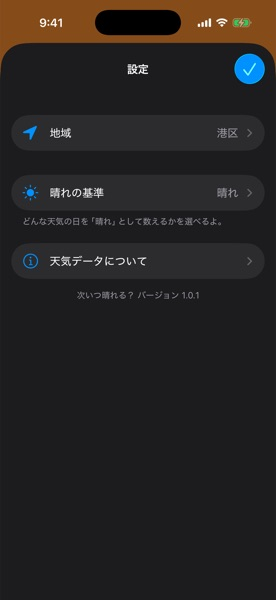
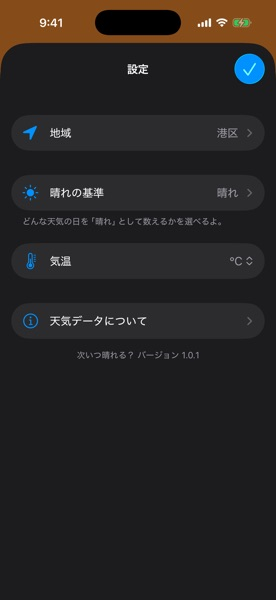
Show English screenshots in the English README
README.md showed the Japanese screens. The screenshots are now in
docs/images/en/ and docs/images/ja/, one set per README, and the
Japanese Settings screens show the new Temperature row.

diff --git a/README.ja.md b/README.ja.md
@@ -4,7 +4,7 @@
 
 <img src="https://user-images.githubusercontent.com/45661924/97105071-d28d2580-16fb-11eb-8f8d-7ec79940db41.png" width="300">
 
-<img src="docs/images/widget.jpg" width="600">
+<img src="docs/images/ja/widget.jpg" width="600">
 
 次に晴れる日を、ホーム画面のウィジェットで確かめられる iOS アプリです。
 天気アプリのウィジェットには今日と明日の天気しか出ず、洗濯物をいつ外に干せるかがわかりにくかったため作りました。
@@ -102,8 +102,8 @@ $ for p in Packages/Core/* Packages/Features/* Tools/ImportCheck; do (cd "$p" &&
 
 | 画面 | Light | Dark |
 | --- | --- | --- |
-| ホーム | <img src="docs/images/home-light.jpg" width="300"> | <img src="docs/images/home-dark.jpg" width="300"> |
-| 日別詳細 | <img src="docs/images/day-light.jpg" width="300"> | <img src="docs/images/day-dark.jpg" width="300"> |
-| 設定 | <img src="docs/images/settings-light.jpg" width="300"> | <img src="docs/images/settings-dark.jpg" width="300"> |
-| 地域検索 | <img src="docs/images/region-light.jpg" width="300"> | <img src="docs/images/region-dark.jpg" width="300"> |
-| 天気データについて | <img src="docs/images/about-light.jpg" width="300"> | <img src="docs/images/about-dark.jpg" width="300"> |
+| ホーム | <img src="docs/images/ja/home-light.jpg" width="300"> | <img src="docs/images/ja/home-dark.jpg" width="300"> |
+| 日別詳細 | <img src="docs/images/ja/day-light.jpg" width="300"> | <img src="docs/images/ja/day-dark.jpg" width="300"> |
+| 設定 | <img src="docs/images/ja/settings-light.jpg" width="300"> | <img src="docs/images/ja/settings-dark.jpg" width="300"> |
+| 地域検索 | <img src="docs/images/ja/region-light.jpg" width="300"> | <img src="docs/images/ja/region-dark.jpg" width="300"> |
+| 天気データについて | <img src="docs/images/ja/about-light.jpg" width="300"> | <img src="docs/images/ja/about-dark.jpg" width="300"> |

diff --git a/README.md b/README.md
@@ -4,7 +4,7 @@
 
 <img src="https://user-images.githubusercontent.com/45661924/97105071-d28d2580-16fb-11eb-8f8d-7ec79940db41.png" width="300">
 
-<img src="docs/images/widget.jpg" width="600">
+<img src="docs/images/en/widget.jpg" width="600">
 
 An iOS widget that shows the next sunny day on your home screen.
 Weather widgets usually show only today and tomorrow, so it was hard to tell when you could hang your laundry outside.
@@ -102,8 +102,8 @@ $ for p in Packages/Core/* Packages/Features/* Tools/ImportCheck; do (cd "$p" &&
 
 | Screen | Light | Dark |
 | --- | --- | --- |
-| Home | <img src="docs/images/home-light.jpg" width="300"> | <img src="docs/images/home-dark.jpg" width="300"> |
-| Day detail | <img src="docs/images/day-light.jpg" width="300"> | <img src="docs/images/day-dark.jpg" width="300"> |
-| Settings | <img src="docs/images/settings-light.jpg" width="300"> | <img src="docs/images/settings-dark.jpg" width="300"> |
-| Region search | <img src="docs/images/region-light.jpg" width="300"> | <img src="docs/images/region-dark.jpg" width="300"> |
-| About weather data | <img src="docs/images/about-light.jpg" width="300"> | <img src="docs/images/about-dark.jpg" width="300"> |
+| Home | <img src="docs/images/en/home-light.jpg" width="300"> | <img src="docs/images/en/home-dark.jpg" width="300"> |
+| Day detail | <img src="docs/images/en/day-light.jpg" width="300"> | <img src="docs/images/en/day-dark.jpg" width="300"> |
+| Settings | <img src="docs/images/en/settings-light.jpg" width="300"> | <img src="docs/images/en/settings-dark.jpg" width="300"> |
+| Region search | <img src="docs/images/en/region-light.jpg" width="300"> | <img src="docs/images/en/region-dark.jpg" width="300"> |
+| About weather data | <img src="docs/images/en/about-light.jpg" width="300"> | <img src="docs/images/en/about-dark.jpg" width="300"> |

diff --git a/docs/README.md b/docs/README.md
@@ -8,4 +8,4 @@
 | [`design/app-icon/`](design/app-icon/) | Layered SVG trace of the lion icon for Icon Composer, plus light/dark/tinted previews |
 | [`design/app-icon-1024.png`](design/app-icon-1024.png) | 1024×1024 master of the app icon. The per-size icons exported from it live in `NextSunnyDay/Assets.xcassets/AppIcon.appiconset/`. |
 | [`release/app-store-metadata.md`](release/app-store-metadata.md) | App Store listing drafts in English and Japanese (name, subtitle, promotional text, keywords, description) |
-| [`images/`](images/) | Screenshots of the app and the widget used by the READMEs (iPhone 17 simulator, sample data from the preview scenarios and live weather) |
+| [`images/`](images/) | Screenshots of the app and the widget used by the READMEs, in English (`en/`, for `README.md`) and Japanese (`ja/`, for `README.ja.md`); iPhone 17 simulator, sample data from the preview scenarios and live weather |
